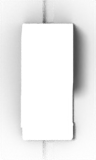
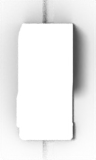
feat(panel): shared cap geometry coloured by each cap's own reference crop
Black and white drawbar caps are one part (nose base sticking out left,
fitted to the reference outline); each is rendered from the camera where it
sits and coloured by its own reference crop projected from there (D17).
Silhouette IoU 0.96 / 0.92 / 0.94.

Changed region(s): [[0.1562, 0.1562, 0.25, 0.8438], [0.7188, 0.1562, 0.7812, 0.875], [0.4688, 0.0938, 0.5, 0.1562]]

diff --git a/assets/blender/parts_cap.py b/assets/blender/parts_cap.py
@@ -22,24 +22,25 @@ BLOCK_TOP_FRONT = 0.02  # top edge of that face
 NOSE_TOP_FRONT = -0.62  # front edge of the nose top
 # EMPIRICAL (reference, every drawbar): the nose top face spans this, left of centre; its
 # right wall slopes down to the full-width base
-NOSE_TOP_X = (-0.39, 0.12)
+NOSE_TOP_X = (-0.43, 0.12)
+NOSE_LEFT = -0.45  # EMPIRICAL: the nose base sticks out left of the block (silhouette fit)
 BASE_H = 0.10  # EMPIRICAL: low base band seen in front of the nose (reference)
 CAP_TAPER = 0.12  # EMPIRICAL: block top is about 0.88 of its base width (photo, front view)
 CAP_BEVEL = 0.09
 CAP_LIFT = 0.03  # cap floats above the plate so the slot shows under it
 # Layer-fader cap EMPIRICAL from its photo: a frustum, top smaller than the base on all sides,
 # rounded edges. Base 96 x 74 reference px.
-LAYER_W, LAYER_L, LAYER_H = 0.74, 0.58, 0.36
+LAYER_W, LAYER_L, LAYER_H = 0.74, 0.61, 0.36
 LAYER_TOP = (0.82, 0.50)  # top width / length as a fraction of the base
 LAYER_BEVEL = 0.07
 # EMPIRICAL: slot is about 22 px wide on the reference, 0.22 of the cap width.
 SLOT_W, SLOT_LEN, SLOT_DEPTH, PLATE_T = 0.17, 3.4, 0.16, 0.2
 
 
-def _section(y, z, top_x):
-    """Cross-section at y: full cap width at the bottom, the top edge between `top_x`."""
+def _section(y, z, top_x, left=-CAP_W / 2):
+    """Cross-section at y: bottom from `left` to the right edge, top edge between `top_x`."""
     hb, zl = CAP_W / 2, CAP_LIFT
-    return [(-hb, y, zl), (hb, y, zl), (top_x[1], y, zl + z), (top_x[0], y, zl + z)]
+    return [(left, y, zl), (hb, y, zl), (top_x[1], y, zl + z), (top_x[0], y, zl + z)]
 
 
 def fader_cap(m, key):
@@ -53,12 +54,12 @@ def fader_cap(m, key):
         (CAP_BACK, ht * 0.86, blk),
         (CAP_BACK - 0.08, ht, blk),
         (BLOCK_TOP_FRONT, ht, blk),
-        (BLOCK_FRONT, hn, NOSE_TOP_X),
-        (NOSE_TOP_FRONT, hn, NOSE_TOP_X),
-        (NOSE_TOP_FRONT - 0.05, BASE_H, base),  # nose front drops onto the low base
-        (CAP_FRONT, BASE_H, base),
+        (BLOCK_FRONT, hn, NOSE_TOP_X, NOSE_LEFT),
+        (NOSE_TOP_FRONT, hn, NOSE_TOP_X, NOSE_LEFT),
+        (NOSE_TOP_FRONT - 0.05, BASE_H, base, NOSE_LEFT),  # nose front drops onto the base
+        (CAP_FRONT, BASE_H, base, NOSE_LEFT),
     ]
-    rings = [_section(y, z, tx) for y, z, tx in secs]
+    rings = [_section(y, z, tx, *lx) for y, z, tx, *lx in secs]
     return [loft("cap_body", rings, m[key], smooth=False, bevel=CAP_BEVEL, segments=8)]
 
 

diff --git a/assets/blender/build_proof.py b/assets/blender/build_proof.py
@@ -93,20 +93,25 @@ def render_ref_knobs(out: Path, scale: int) -> None:
 
 
 CAPS = {
-    "drawbar_cap_black": ("drawbar_shadow_black", C.fader_cap, "cap_black", "drawbar"),
-    "drawbar_cap_white": ("drawbar_shadow_white", C.fader_cap, "cap_white", "drawbar"),
-    "layer_cap_grey": ("layer_shadow_grey", C.layer_cap, "cap_grey", "layer"),
+    "drawbar_cap_black": ("drawbar_shadow_black", C.fader_cap),
+    "drawbar_cap_white": ("drawbar_shadow_white", C.fader_cap),
+    "layer_cap_grey": ("layer_shadow_grey", C.layer_cap),
 }
 
 
 def render_caps(out: Path, scale: int) -> None:
-    """Caps as real parts: one geometry per part (both drawbar colours share it, same camera),
-    shaded with the calibrated materials, then the cap's shadow from the same geometry."""
-    for name, (shadow, make, mat, lean) in CAPS.items():
-        m = fresh(scale, name, lean)
-        make(m, mat)
+    """Caps as real parts: one geometry per part (both drawbar colours share it), seen from
+    the camera where that cap sits on the reference (`LEAN[<cap>]`), coloured by the
+    reference crop projected from that camera (D17, `proj_<cap>.png` from panel_refbake), so
+    the outline comes from the geometry and the colour exactly from the reference. Then the
+    cap's shadow from the same geometry."""
+    for name, (shadow, make) in CAPS.items():
+        fresh(scale, name, name)
+        make({"proj": M.projected(f"proj_{name}", P.RAW_DIR / f"proj_{name}.png")}, "proj")
+        cy = bpy.context.scene.cycles
+        cy.use_denoising, cy.samples = False, 64  # unlit texture: no noise, keep it sharp
         S.render(out / f"{name}_{scale}x.png")
-        m = fresh(scale, shadow, lean)
+        m = fresh(scale, shadow, name)
         S.flags(C.plate_slot(M.catcher_mats()), catcher=True)
         S.flags(make(m, "cap_black"), holdout=True)
         S.render(out / f"{shadow}_{scale}x.png")
